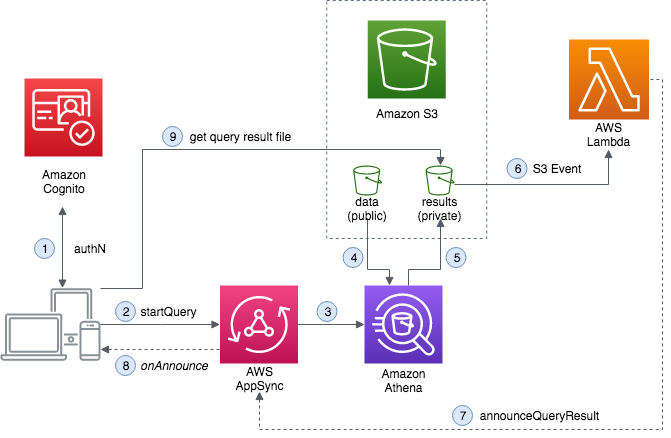
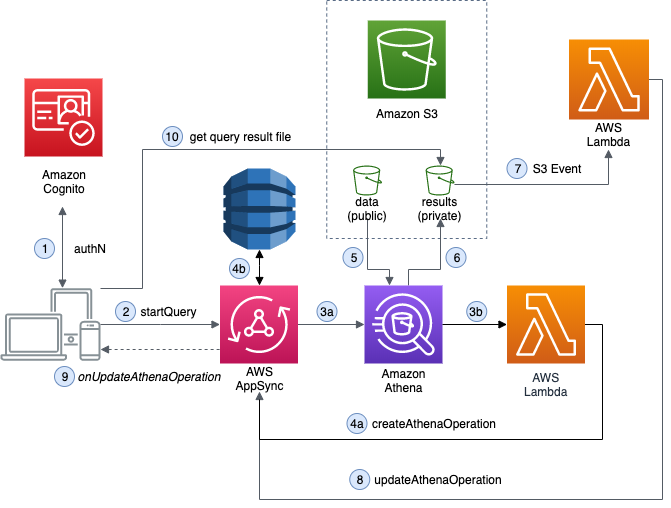
update readme

Changed region(s): [[0.0, 0.0297, 0.9836, 0.9201], [0.3875, 0.9201, 0.9836, 1.0], [0.7154, 0.4155, 0.7452, 0.4452]]

diff --git a/README.md b/README.md
@@ -12,6 +12,7 @@ This public dataset provides "population data for a selection of countries, allo
 
 ## Updates
 
+* 12/19/19: New branch `with-auth` that provides an implementation that tracks request per owner in a DynamoDB table. In introduces a pipeline resolver with 2 functions to interact with Amazon Athena and AWS Lambda in a single query.
 * 11/11/19: Updated to support multi auth with Amplify CLI. Requires Amplify CLI version 3.17 and above.
 
 ## Getting started
@@ -60,8 +61,11 @@ Here is how the application works:
 
 1. Users sign in to the app using Amazon Cognito User Pools. The JWT access token returned at sign-in is sent in an authorization header to AWS AppSync with every GraphQL operation.
 2. A user selects a country from the drop-down list and chooses Query. This triggers a GraphQL query. When the app receives the `QueryExecutionId` in the response, it subscribes to mutations on that ID.
-3. AWS AppSync makes a SigV4-signed request to the Athena API with the specified query.
-4. Athena runs the query against the specified table. The query returns the sum of the population at recorded longitudes for the selected country along with a count of latitudes at each longitude.
+3. Pipeline resolver:
+   1. AWS AppSync makes a SigV4-signed request to the Athena API with the specified query.
+   2. The results of the query request are sent to a Lambda function.
+4. Lambda function stores the operation details for the owner in a DynamoDB table using AWS AppSync.
+5. Athena runs the query against the specified table. The query returns the sum of the population at recorded longitudes for the selected country along with a count of latitudes at each longitude.
     ```sql
     SELECT longitude, count(latitude) as count, sum(population) as tot_pop
       FROM "default"."hrsl"
@@ -69,10 +73,10 @@ Here is how the application works:
       group by longitude
       order by longitude
     ```
-5. The results of the query are stored in the result S3 bucket, under the `/protected/athena/` prefix. Signed-in app users can access these results using their IAM credentials.
-6. Putting the query result file in the bucket generates an S3 event and triggers the announcer Lambda function.
-7. The announcer Lambda function sends an `announceQueryResult` mutation with the S3 bucket and object information.
-8. The mutation triggers a subscription with the mutation's selection set.
-9. The client retrieves the result file from the S3 bucket and displays the custom visualization.
+6. The results of the query are stored in the result S3 bucket, under the `/protected/athena/` prefix. Signed-in app users can access these results using their IAM credentials.
+7. Putting the query result file in the bucket generates an S3 event and triggers the announcer Lambda function.
+8. The announcer Lambda function sends an `announceQueryResult` mutation with the S3 bucket and object information.
+9.  The mutation triggers a subscription with the mutation's selection set.
+10. The client retrieves the result file from the S3 bucket and displays the custom visualization.
 
 ![Custom visualization of population density by longitudes](app-image.png)
